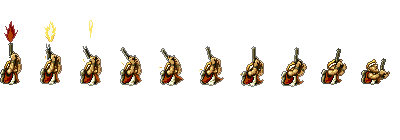
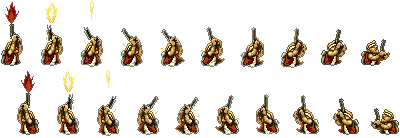
권총애니메이션 수정

diff --git a/Engine_SOURCE/yaHeadScript.cpp b/Engine_SOURCE/yaHeadScript.cpp
@@ -14,7 +14,6 @@ namespace ya
 {
 	//HeadScript::GunState HeadScript::mGunState = eGunState::GUN;
 
-
 	HeadScript::HeadScript()
 		: Script()
 		, mBullet(nullptr)
@@ -48,74 +47,67 @@ namespace ya
 			mHeadAni->Create(L"HeadIdle", texture, Vector2(0.0f, 0.0f), Vector2(40.0f, 32.0f), Vector2(0.05f,-0.08f), 4, 0.3f);
 			mHeadAni->Create(L"LHeadIdle", texture, Vector2(0.0f, 32.0f), Vector2(40.0f, 32.0f), Vector2(-0.05f, -0.08f), 4, 0.3f);
 
-			texture = Resources::Load<Texture>(L"MoveLeftU", L"Character\\Marco\\LMoveU.png");
-			mHeadAni->Create(L"MoveLeftU", texture, Vector2(0.0f, 0.0f), Vector2(60.0f, 34.0f), Vector2(-0.001f, 0.0f), 12, 0.15f);
-
-
-			texture = Resources::Load<Texture>(L"MoveRightU", L"Character\\Marco\\MoveU.png");
-			mHeadAni->Create(L"MoveRightU", texture, Vector2(0.0f, 0.0f), Vector2(40.0f, 34.0f), Vector2::Zero, 12, 0.15f);
-
+			texture = Resources::Load<Texture>(L"MoveU", L"Character\\Marco\\MoveU.png");
+			mHeadAni->Create(L"MoveRightU", texture, Vector2(0.0f, 0.0f), Vector2(35.0f, 30.0f), Vector2(0.01f, -0.08f), 12, 0.15f);
+			mHeadAni->Create(L"MoveLeftU", texture, Vector2(0.0f, 30.0f), Vector2(35.0f, 30.0f), Vector2(-0.01f, -0.08f), 12, 0.15f);
 
 			texture = Resources::Load<Texture>(L"PistolAttackU", L"Character\\Marco\\PistolAttackU.png");
-			mHeadAni->Create(L"PistolAttackU", texture, Vector2(0.0f, 0.0f), Vector2(60.0f, 34.0f), Vector2::Zero, 10, 0.05f);
-			mHeadAni->Create(L"JumpAttack", texture, Vector2(0.0f, 0.0f), Vector2(60.0f, 34.0f), Vector2(0.0f, 0.0f), 10, 0.05f);
-			mHeadAni->Create(L"JumpMoveAttack", texture, Vector2(0.0f, 0.0f), Vector2(60.0f, 34.0f), Vector2(0.007f,-0.2f), 10, 0.05f);
+			mHeadAni->Create(L"PistolAttackU", texture, Vector2(0.0f, 0.0f), Vector2(60.0f, 30.0f), Vector2(0.03f, -0.08f), 10, 0.05f);
+			mHeadAni->Create(L"JumpAttack", texture, Vector2(0.0f, 0.0f), Vector2(60.0f, 30.0f), Vector2(0.03f, -0.08f), 10, 0.05f);
+			mHeadAni->Create(L"JumpMoveAttack", texture, Vector2(0.0f, 0.0f), Vector2(60.0f, 30.0f), Vector2(0.03f, -0.08f), 10, 0.05f);
 
-			texture = Resources::Load<Texture>(L"LPistolAttackU", L"Character\\Marco\\LPistolAttackU.png");
-			mHeadAni->Create(L"LPistolAttackU", texture, Vector2(0.0f, 0.0f), Vector2(100.0f, 34.0f), Vector2::Zero, 10, 0.05f);
-			mHeadAni->Create(L"LJumpAttack", texture, Vector2(0.0f, 0.0f), Vector2(100.0f, 34.0f), Vector2(0.0f, 0.0f), 10, 0.05f);
-			mHeadAni->Create(L"LJumpMoveAttack", texture, Vector2(0.0f, 0.0f), Vector2(100.0f, 34.0f), Vector2(-0.005f, -0.2f), 10, 0.05f);
+			mHeadAni->Create(L"LPistolAttackU", texture, Vector2(0.0f, 30.0f), Vector2(60.0f, 30.0f), Vector2(-0.03f, -0.08f), 10, 0.05f);
+			mHeadAni->Create(L"LJumpAttack", texture, Vector2(0.0f, 30.0f), Vector2(60.0f, 30.0f), Vector2(-0.03f, -0.07f), 10, 0.05f);
+			mHeadAni->Create(L"LJumpMoveAttack", texture, Vector2(0.0f, 30.0f), Vector2(60.0f, 30.0f), Vector2(-0.03f, -0.07f), 10, 0.05f);
 
 			texture = Resources::Load<Texture>(L"LookTop", L"Character\\Marco\\LookTop.png");
-			mHeadAni->Create(L"LookTop", texture, Vector2(0.0f, 0.0f), Vector2(50.0f, 33.5f), Vector2::Zero, 2, 0.1f);
-			mHeadAni->Create(L"LookTop2", texture, Vector2(0.0f, 33.6f), Vector2(50.0f, 33.5f), Vector2::Zero, 4, 0.1f);
+			mHeadAni->Create(L"LookTop", texture, Vector2(0.0f, 0.0f), Vector2(50.0f, 33.5f), Vector2(0.04f, -0.12f), 2, 0.1f);
+			mHeadAni->Create(L"LookTop2", texture, Vector2(0.0f, 33.6f), Vector2(50.0f, 33.5f), Vector2(0.038f, -0.12f), 4, 0.1f);
 
 			texture = Resources::Load<Texture>(L"LLookTop", L"Character\\Marco\\LLookTop.png");
-			mHeadAni->Create(L"LLookTop", texture, Vector2(0.0f, 0.0f), Vector2(75.0f, 33.5f), Vector2::Zero, 2, 0.1f);
-			mHeadAni->Create(L"LLookTop2", texture, Vector2(0.0f, 33.6f), Vector2(75.0f, 33.5f), Vector2::Zero, 4, 0.1f);
+			mHeadAni->Create(L"LLookTop", texture, Vector2(0.0f, 0.0f), Vector2(75.0f, 33.5f), Vector2(0.04f, -0.12f), 2, 0.1f);
+			mHeadAni->Create(L"LLookTop2", texture, Vector2(0.0f, 33.6f), Vector2(75.0f, 33.5f), Vector2(0.038f, -0.12f), 4, 0.1f);
 
 			texture = Resources::Load<Texture>(L"AttackTop", L"Character\\Marco\\AttackTop.png");
-			mHeadAni->Create(L"AttackTop", texture, Vector2(0.0f, 0.0f), Vector2(40.0f, 140.0f), Vector2::Zero, 10, 0.1f);
-
-			texture = Resources::Load<Texture>(L"LAttackTop", L"Character\\Marco\\LAttackTop.png");
-			mHeadAni->Create(L"LAttackTop", texture, Vector2(0.0f, 0.0f), Vector2(60.0f, 140.0f), Vector2::Zero, 10, 0.1f);
+			mHeadAni->Create(L"AttackTop", texture, Vector2(0.0f, 0.0f), Vector2(40.0f, 69.0f), Vector2(0.015f, -0.18f), 10, 0.1f);
+			mHeadAni->Create(L"LAttackTop", texture, Vector2(0.0f, 69.0f), Vector2(40.0f, 69.0f), Vector2(-0.015f, -0.18f), 10, 0.1f);
 
 			texture = Resources::Load<Texture>(L"Down", L"Character\\Marco\\Down.png");
-			mHeadAni->Create(L"DownMotion", texture, Vector2(0.0f, 0.0f), Vector2(50.0f, 45.0f), Vector2(0.01f, 0.07f), 3, 0.1f);
-			mHeadAni->Create(L"DownIdle", texture, Vector2(0.0f, 45.0f), Vector2(50.0f, 45.0f), Vector2(0.01f, 0.07f), 4, 0.3f);
-			mHeadAni->Create(L"DownMove", texture, Vector2(0.0f, 90.f), Vector2(50.0f, 45.0f), Vector2(0.01f, 0.07f), 7, 0.07f);
+			mHeadAni->Create(L"DownMotion", texture, Vector2(0.0f, 0.0f), Vector2(50.0f, 45.0f), Vector2(0.03f, 0.0f), 3, 0.1f);
+			mHeadAni->Create(L"DownIdle", texture, Vector2(0.0f, 45.0f), Vector2(50.0f, 45.0f), Vector2(0.03f, 0.0f), 4, 0.3f);
+			mHeadAni->Create(L"DownMove", texture, Vector2(0.0f, 90.f), Vector2(50.0f, 45.0f), Vector2(0.03f, 0.01f), 7, 0.07f);
 
 			texture = Resources::Load<Texture>(L"LeftDown", L"Character\\Marco\\LeftDown.png");
-			mHeadAni->Create(L"LDownMotion", texture, Vector2(0.0f, 0.0f), Vector2(50.0f, 45.0f), Vector2(-0.01f, 0.07f), 3, 0.1f);
-			mHeadAni->Create(L"LDownIdle", texture, Vector2(0.0f, 45.0f), Vector2(50.0f, 45.0f), Vector2(-0.01f, 0.07f), 4, 0.3f);
-			mHeadAni->Create(L"LDownMove", texture, Vector2(0.0f, 90.f), Vector2(50.0f, 45.0f), Vector2(-0.01f, 0.07f), 7, 0.07f);
+			mHeadAni->Create(L"LDownMotion", texture, Vector2(0.0f, 0.0f), Vector2(50.0f, 45.0f), Vector2(0.01f, 0.0f), 3, 0.1f);
+			mHeadAni->Create(L"LDownIdle", texture, Vector2(0.0f, 45.0f), Vector2(50.0f, 45.0f), Vector2(0.01f, 0.0f), 4, 0.3f);
+			mHeadAni->Create(L"LDownMove", texture, Vector2(0.0f, 90.f), Vector2(50.0f, 45.0f), Vector2(0.01f, 0.01f), 7, 0.07f);
 
 			texture = Resources::Load<Texture>(L"StiDownAttack", L"Character\\Marco\\StiDownAttack.png");
-			mHeadAni->Create(L"StiDownAttack", texture, Vector2(0.0f, 0.0f), Vector2(60.0f, 31.0f), Vector2(0.02f, 0.55f), 10, 0.1f);
+			mHeadAni->Create(L"StiDownAttack", texture, Vector2(0.0f, 0.0f), Vector2(60.0f, 31.0f), Vector2(0.03f, 0.25f), 10, 0.1f);
 
 			texture = Resources::Load<Texture>(L"LStiDownAttack", L"Character\\Marco\\LStiDownAttack.png");
-			mHeadAni->Create(L"LStiDownAttack", texture, Vector2(0.0f, 0.0f), Vector2(60.0f, 31.0f), Vector2(-0.04f, 0.55f), 10, 0.1f);
+			mHeadAni->Create(L"LStiDownAttack", texture, Vector2(0.0f, 0.0f), Vector2(60.0f, 31.0f), Vector2(-0.03f, 0.22f), 10, 0.1f);
 
 			texture = Resources::Load<Texture>(L"Jump", L"Character\\Marco\\JumpU.png");
-			mHeadAni->Create(L"Jump", texture, Vector2(0.0f, 0.0f), Vector2(35.0f, 32.0f), Vector2(-0.04f, 0.05f), 6, 0.1f);
-			mHeadAni->Create(L"LJump", texture, Vector2(0.0f, 32.0f), Vector2(35.0f, 32.0f), Vector2(-0.04f, 0.05f), 6, 0.1f);
+			mHeadAni->Create(L"Jump", texture, Vector2(0.0f, 0.0f), Vector2(35.0f, 32.0f), Vector2(0.01f, -0.15f), 6, 0.1f);
+			mHeadAni->Create(L"LJump", texture, Vector2(0.0f, 32.0f), Vector2(35.0f, 32.0f), Vector2(0.01f, -0.14f), 6, 0.1f);
 
 			texture = Resources::Load<Texture>(L"JumpMoveU", L"Character\\Marco\\JumpMoveU.png");
-			mHeadAni->Create(L"JumpMoveU", texture, Vector2(0.0f, 0.0f), Vector2(35.0f, 40.0f), Vector2(-0.04f, 0.03f), 6, 0.1f);
-			mHeadAni->Create(L"LJumpMoveU", texture, Vector2(0.0f, 40.0f), Vector2(35.0f, 40.0f), Vector2(-0.05f, 0.03f), 6, 0.1f);
+			mHeadAni->Create(L"JumpMoveU", texture, Vector2(0.0f, 0.0f), Vector2(35.0f, 40.0f), Vector2(0.0f, 0.0f), 6, 0.15f);
+			mHeadAni->Create(L"LJumpMoveU", texture, Vector2(0.0f, 40.0f), Vector2(35.0f, 40.0f), Vector2(0.0f, 0.0f), 6, 0.15f);
 			
 			texture = Resources::Load<Texture>(L"KnifeAttackU", L"Character\\Marco\\KnifeAttackU.png");
 			mHeadAni->Create(L"KnifeAttackU", texture, Vector2(0.0f, 0.0f), Vector2(50.0f, 58.0f), Vector2(-0.02f, -0.03f), 6, 0.1f);
 
 			texture = Resources::Load<Texture>(L"GrenadeAttackU", L"Character\\Marco\\GrenadeAttackU.png");
-			mHeadAni->Create(L"GrenadeAttackU", texture, Vector2(0.0f, 0.0f), Vector2(39.5f, 38.0f), Vector2(-0.005f, 0.05f), 6, 0.1f);
-			mHeadAni->Create(L"LGrenadeAttackU", texture, Vector2(0.0f, 38.0f), Vector2(39.5f, 38.0f), Vector2(-0.08f, 0.1f), 6, 0.1f);
+			mHeadAni->Create(L"GrenadeAttackU", texture, Vector2(0.0f, 0.0f), Vector2(39.5f, 38.0f), Vector2(0.03f, -0.06f), 6, 0.1f);
+			mHeadAni->Create(L"LGrenadeAttackU", texture, Vector2(0.0f, 38.0f), Vector2(39.5f, 38.0f), Vector2(-0.035f, -0.02f), 6, 0.1f);
 
-			mHeadAni->Create(L"GrenadeJumpAttackU", texture, Vector2(0.0f, 0.0f), Vector2(39.5f, 38.0f), Vector2(-0.005f, 0.1f), 6, 0.1f);
-			mHeadAni->Create(L"LGrenadeJumpAttackU", texture, Vector2(0.0f, 38.0f), Vector2(39.5f, 38.0f), Vector2(-0.08f, 0.13f), 6, 0.1f);
+			mHeadAni->Create(L"GrenadeJumpAttackU", texture, Vector2(0.0f, 0.0f), Vector2(39.5f, 38.0f), Vector2(0.025f, -0.08f), 6, 0.1f);
+			mHeadAni->Create(L"LGrenadeJumpAttackU", texture, Vector2(0.0f, 38.0f), Vector2(39.5f, 38.0f), Vector2(-0.04f, -0.04f), 6, 0.1f);
 
-			mHeadAni->Create(L"GrenadeJumpMoveAttackU", texture, Vector2(0.0f, 0.0f), Vector2(39.5f, 38.0f), Vector2(-0.005f, 0.f), 6, 0.1f);
-			mHeadAni->Create(L"LGrenadeJumpMoveAttackU", texture, Vector2(0.0f, 38.0f), Vector2(39.5f, 38.0f), Vector2(-0.08f, 0.f), 6, 0.1f);
+			mHeadAni->Create(L"GrenadeJumpMoveAttackU", texture, Vector2(0.0f, 0.0f), Vector2(39.5f, 38.0f), Vector2(0.025f, -0.08f), 6, 0.1f);
+			mHeadAni->Create(L"LGrenadeJumpMoveAttackU", texture, Vector2(0.0f, 38.0f), Vector2(39.5f, 38.0f), Vector2(-0.04f, -0.04f), 6, 0.1f);
 
 			texture = Resources::Load<Texture>(L"Death", L"Character\\Marco\\Death.png");
 			mHeadAni->Create(L"Death", texture, Vector2(0.0f, 0.0f), Vector2(45.0f, 46.0f), Vector2(-0.008f, 0.18f), 19, 0.1f);
@@ -407,20 +399,6 @@ namespace ya
 		{
 			if (rigidbody->GetGround() == false)
 			{
-				if (Input::GetKey(eKeyCode::RIGHT))
-				{
-					if (mGunState == eGunState::GUN)
-						mHeadAni->Play(L"JumpMoveU", false);
-					if (mGunState == eGunState::MACHINEGUN)
-						mHeadAni->Play(L"RightMoveJump", false);
-				}
-				else
-				{
-					if (mGunState == eGunState::GUN)
-						mHeadAni->Play(L"Jump", false);
-					if (mGunState == eGunState::MACHINEGUN)
-						mHeadAni->Play(L"RightJump", false);
-				}
 				mHeadState = HeadState::JUMPMOVE;
 			}
 			else
@@ -437,21 +415,6 @@ namespace ya
 		{
 			if (rigidbody->GetGround() == false)
 			{
-				if (Input::GetKey(eKeyCode::LEFT))
-				{
-
-					if (mGunState == eGunState::GUN)
-						mHeadAni->Play(L"LJumpMoveU", false);
-					if (mGunState == eGunState::MACHINEGUN)
-						mHeadAni->Play(L"LeftMoveJump", false);
-				}
-				else
-				{
-					if (mGunState == eGunState::GUN)
-						mHeadAni->Play(L"LJump", false);
-					if (mGunState == eGunState::MACHINEGUN)
-						mHeadAni->Play(L"LeftJump", false);
-				}
 				mHeadState = HeadState::JUMPMOVE;
 			}
 			else

diff --git a/Engine_SOURCE/yaStage1Scene.cpp b/Engine_SOURCE/yaStage1Scene.cpp
@@ -275,13 +275,11 @@ namespace ya
 		heliObj->AddComponent<HelicopterScript>();
 
 		
-
-
 		// MachineGunItem
 		MachineGun* machineGun = object::Instantiate<MachineGun>(eLayerType::MachineGunItem, this);
 		machineGun->SetName(L"machineGun");
 		Transform* machineGunTr = machineGun->GetComponent<Transform>();
-		machineGunTr->SetPosition(Vector3(-5.0f, -4.0f, 2.0f));
+		machineGunTr->SetPosition(Vector3(-75.0f, -2.0f, 2.0f));
 		machineGunTr->SetScale(Vector3(10.0f, 10.0f,1.0f));
 		MachineGunScript* machineGunScript = machineGun->AddComponent<MachineGunScript>();
 
